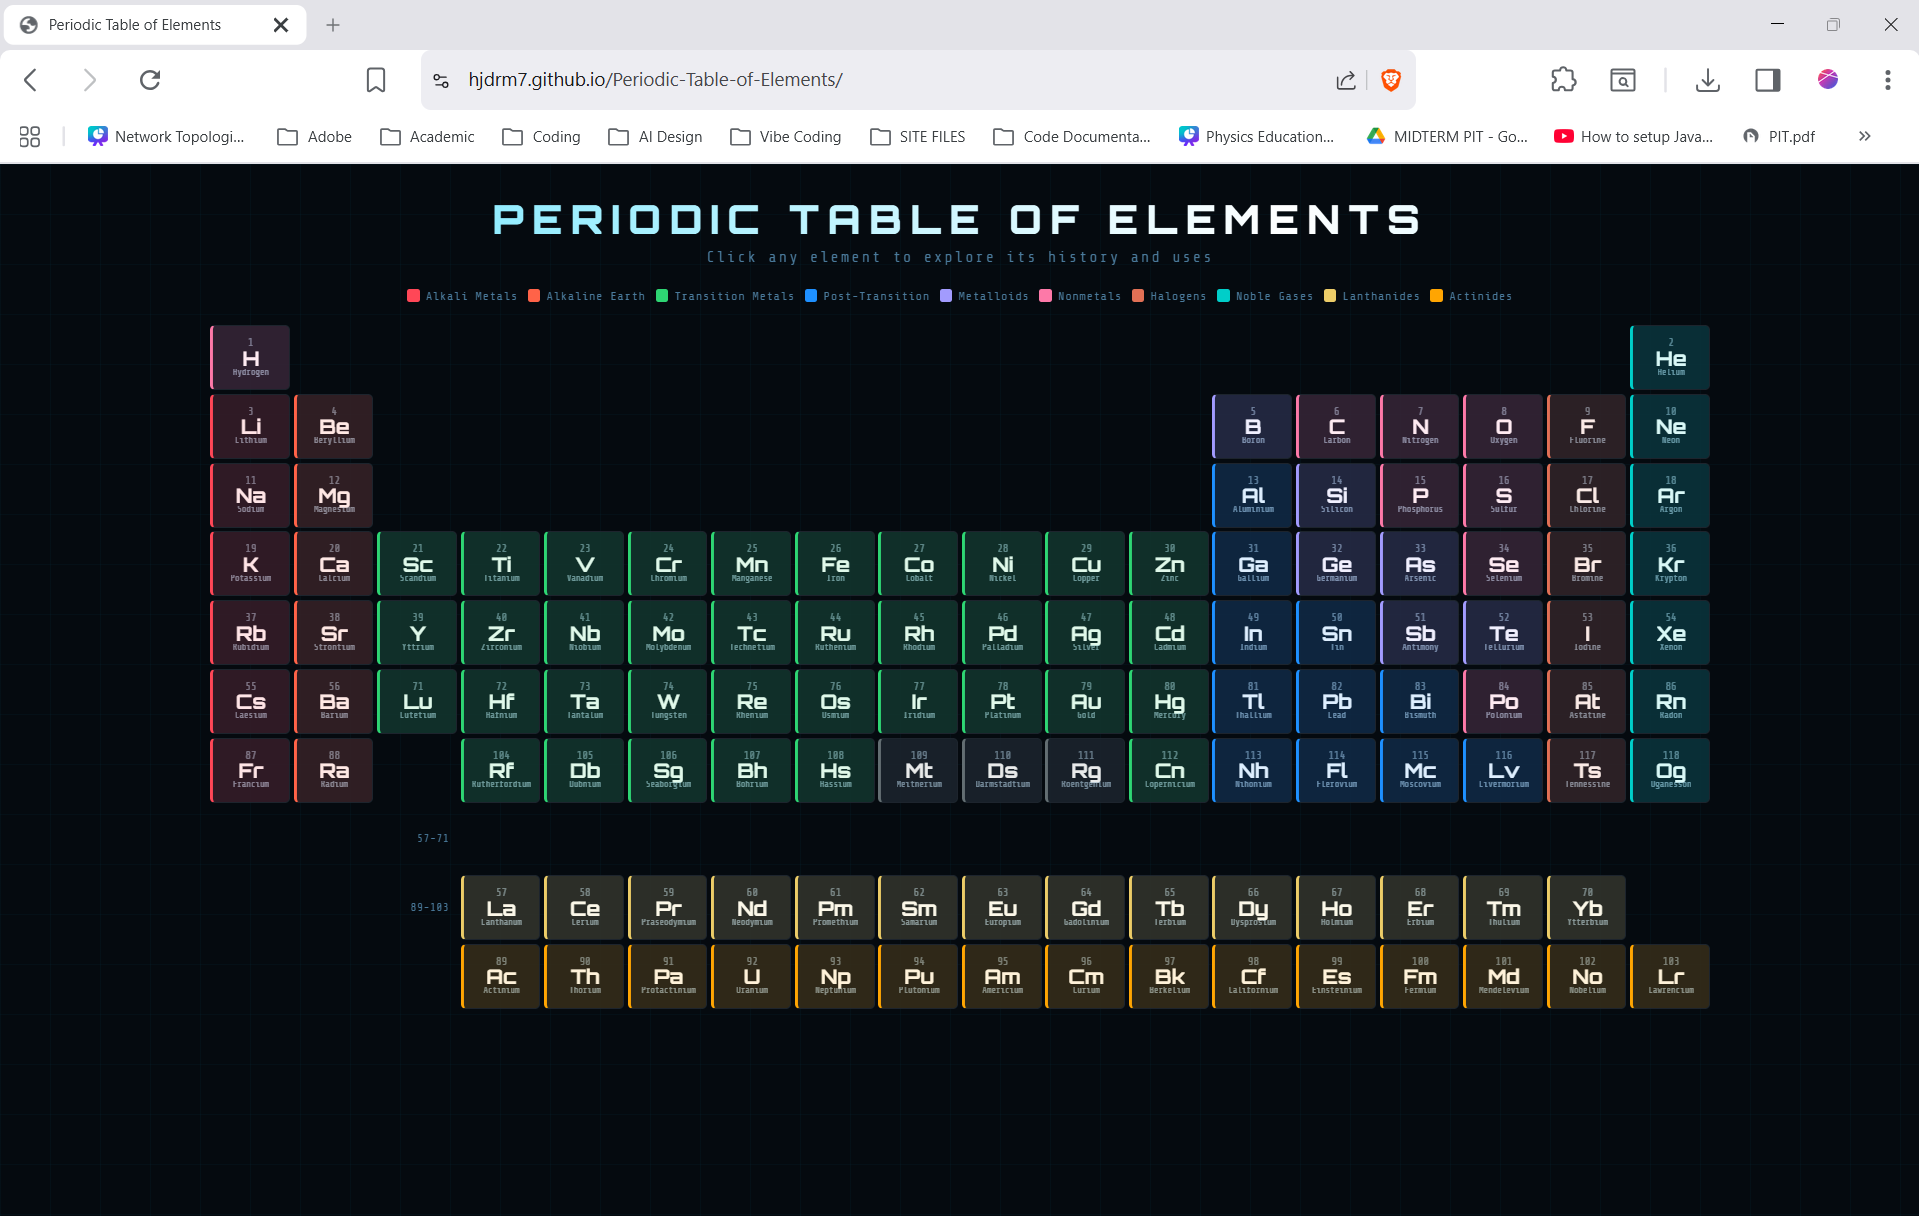
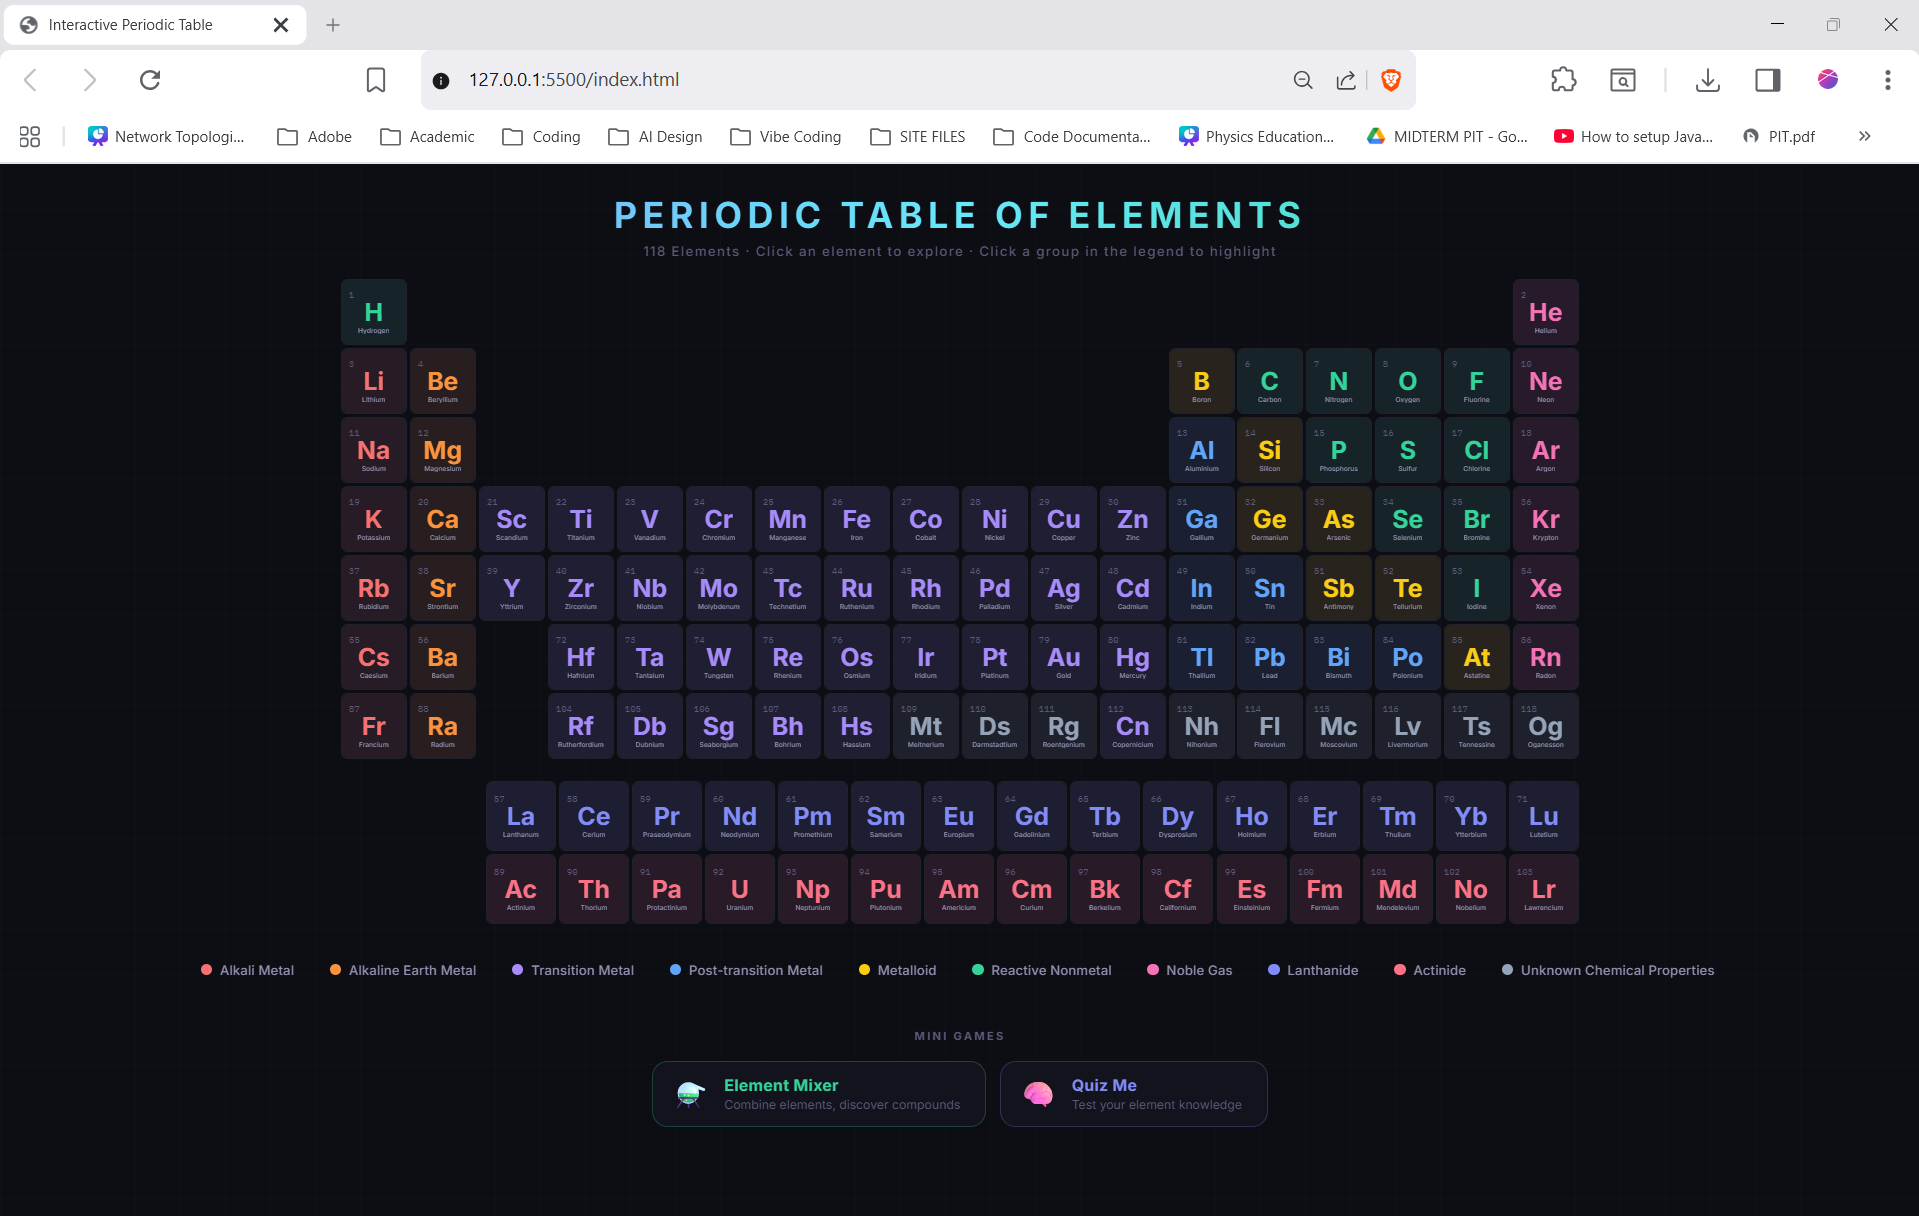
Footer Changes

diff --git a/index.html b/index.html
@@ -499,28 +499,11 @@
         <div class="footer-headline">
           <p class="footer-lets">Let's <span id="footer-cycle-word" class="footer-cycle-word">create</span></p>
           <p class="footer-together">incredible work together.</p>
+                <div class="footer-rule"></div>
+      <span class="footer-location">Based in <strong>Oroquieta City, Philippines</strong> ©</span>
+          
         </div>
       </div>
-
-      <div class="footer-meta">
-        <div class="footer-email-block">
-          <span class="footer-label">Email</span>
-          <a href="/cdn-cgi/l/email-protection#a2c3c3d6cacbc4e2c7dac3cfd2cec78cc1cdcf" class="footer-email"><span
-              class="__cf_email__"
-              data-cfemail="38524d5c5d594a5755165c575551565f4d5d42785f55595154165b5755">[email&#160;protected]</span></a>
-        </div>
-
-        <div class="footer-socials-block">
-
-        </div>
-
-      </div>
-
-      <div class="footer-rule"></div>
-      <span class="footer-location">Based in <strong>Oroquieta City, Philippines</strong></span>
-      <span class="footer-copy">©</span>
-    </div>
-    </div>
 
     <div class="footer-wordmark">Jude Arom Dominguez</div>
 
